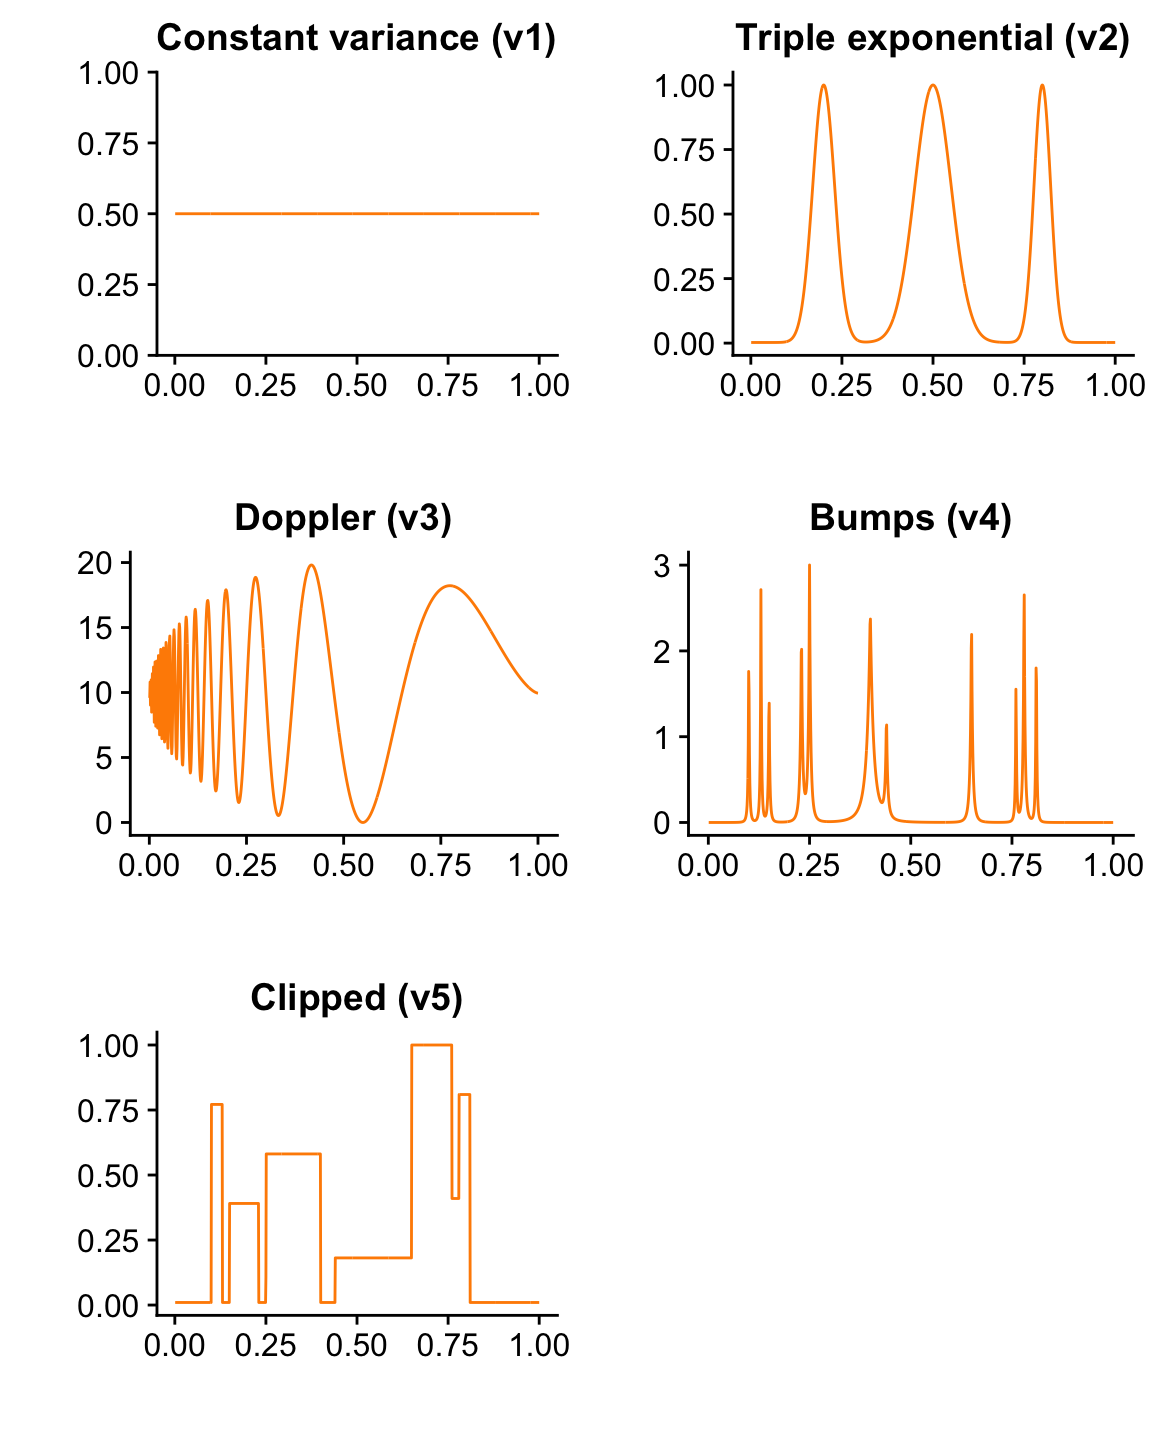
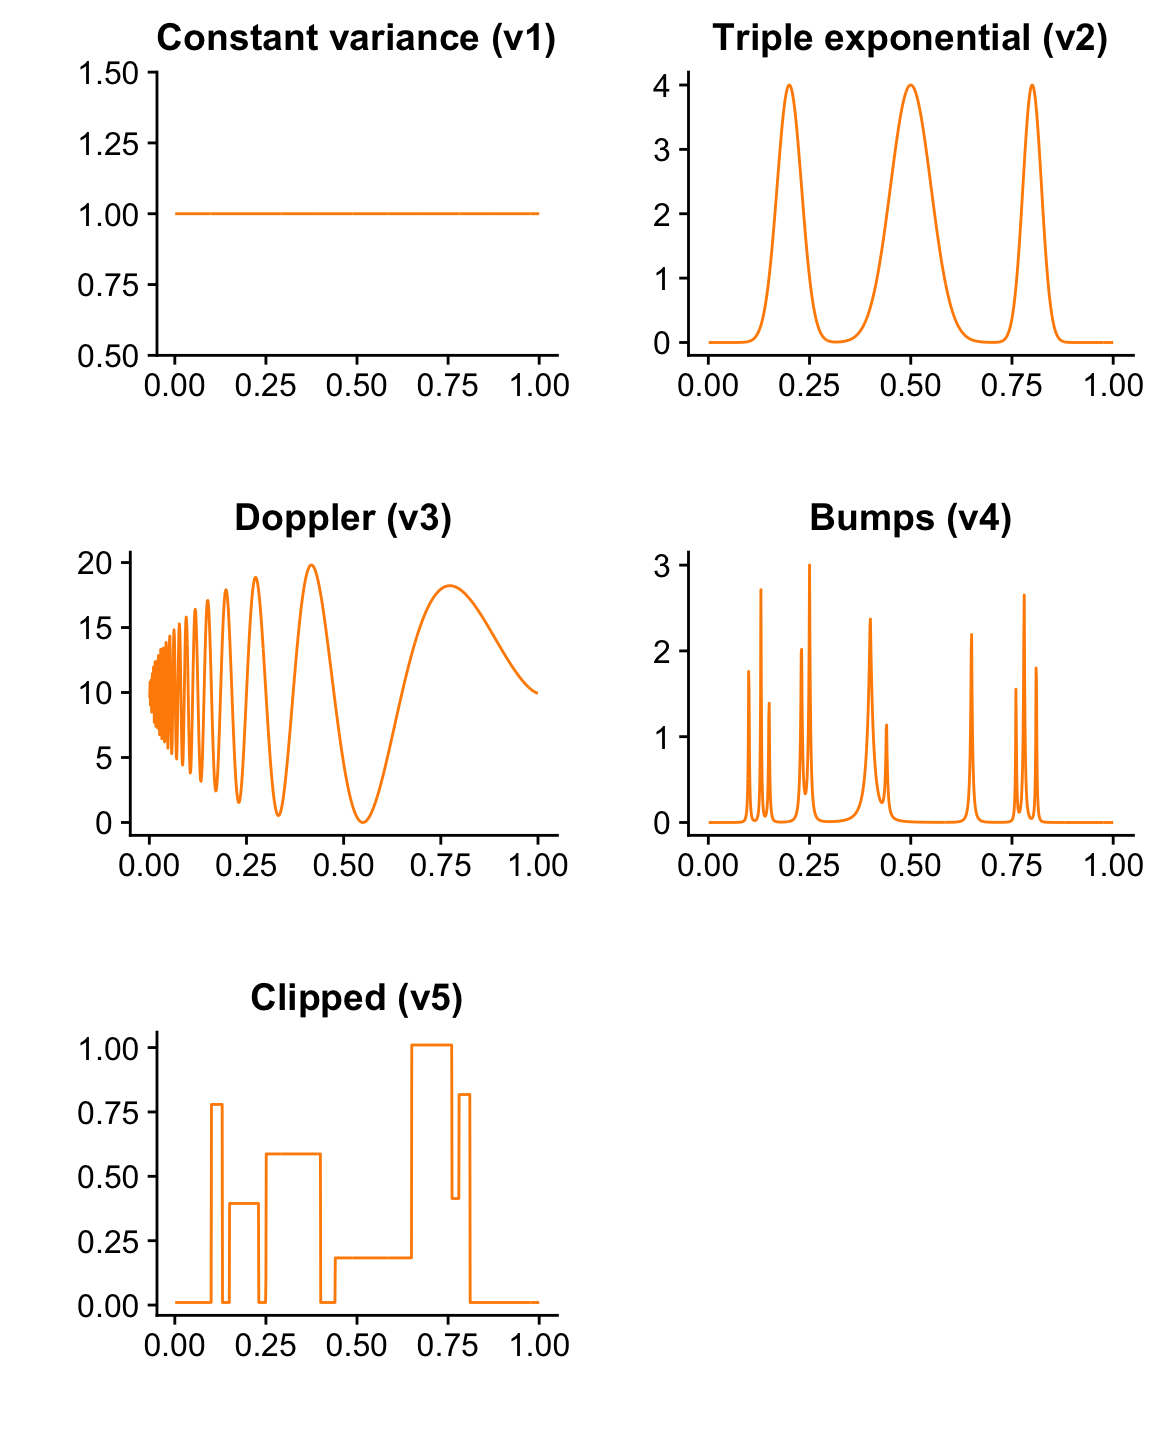
Greatly simplified code in gaussian_signals analysis.

diff --git a/docs/gaussian_signals.html b/docs/gaussian_signals.html
@@ -419,10 +419,10 @@ This reproducible <a href="http://rmarkdown.rstudio.com">R Markdown</a> analysis
 <div class="panel panel-default">
 <div class="panel-heading">
 <p class="panel-title">
-<a data-toggle="collapse" data-parent="#workflowr-checks" href="#strongRepositoryversionstrongahrefhttpsgithubcomstephenslabsmashpapertreefe0ba95008deb668982374733a22955349565643targetblankfe0ba95a"> <span class="glyphicon glyphicon-ok text-success" aria-hidden="true"></span> <strong>Repository version:</strong> <a href="https://github.com/stephenslab/smash-paper/tree/fe0ba95008deb668982374733a22955349565643" target="_blank">fe0ba95</a> </a>
+<a data-toggle="collapse" data-parent="#workflowr-checks" href="#strongRepositoryversionstrongahrefhttpsgithubcomstephenslabsmashpapertree44525e81bcd24ed356f87a8c5205eee013557614targetblank44525e8a"> <span class="glyphicon glyphicon-ok text-success" aria-hidden="true"></span> <strong>Repository version:</strong> <a href="https://github.com/stephenslab/smash-paper/tree/44525e81bcd24ed356f87a8c5205eee013557614" target="_blank">44525e8</a> </a>
 </p>
 </div>
[2 lines of base64/hex data omitted]
 <div class="panel-body">
 <p>
 Great! You are using Git for version control. Tracking code development and connecting the code version to the results is critical for reproducibility. The version displayed above was the version of the Git repository at the time these results were generated. <br><br> Note that you need to be careful to ensure that all relevant files for the analysis have been committed to Git prior to generating the results (you can use <code>wflow_publish</code> or <code>wflow_git_commit</code>). workflowr only checks the R Markdown file, but you know if there are other scripts or data files that it depends on. Below is the status of the Git repository when the results were generated:
@@ -459,9 +459,6 @@ Ignored files:
 
 Untracked files:
     Untracked:  files.txt
-
-Unstaged changes:
-    Modified:   code/signals.R
 
 </code></pre>
 <p>
@@ -500,6 +497,40 @@ Message
 </tr>
 </thead>
 <tbody>
+<tr>
+<td>
+Rmd
+</td>
+<td>
+<a href="https://github.com/stephenslab/smash-paper/blob/44525e81bcd24ed356f87a8c5205eee013557614/analysis/gaussian_signals.Rmd" target="_blank">44525e8</a>
+</td>
+<td>
+Peter Carbonetto
+</td>
+<td>
+2019-11-12
+</td>
+<td>
+wflow_publish(“gaussian_signals.Rmd”)
+</td>
+</tr>
+<tr>
+<td>
+html
+</td>
+<td>
+<a href="https://rawcdn.githack.com/stephenslab/smash-paper/d01177ced404772d47093ff8ff876d4c68465461/docs/gaussian_signals.html" target="_blank">d01177c</a>
+</td>
+<td>
+Peter Carbonetto
+</td>
+<td>
+2019-11-12
+</td>
+<td>
+Simplified some of the code used in the gaussian_signals analysis.
+</td>
+</tr>
 <tr>
 <td>
 Rmd
@@ -910,47 +941,24 @@ source(&quot;../code/signals.R&quot;)</code></pre>
 <p>Here, <code>n</code> specifies the length of the signals.</p>
 <pre class="r"><code>n &lt;- 1024
 t &lt;- 1:n/n</code></pre>
-<p>Define the Angle mean function.</p>
-<pre class="r"><code>sig = ((2 * t + 0.5) * (t &lt;= 0.15)) +
-      ((-12 * (t - 0.15) + 0.8) * (t &gt; 0.15 &amp; t &lt;= 0.2)) +
-      0.2 * (t &gt; 0.2 &amp; t &lt;= 0.5) + 
-      ((6 * (t - 0.5) + 0.2) * (t &gt; 0.5 &amp; t &lt;= 0.6)) +
-      ((-10 * (t - 0.6) + 0.8) * (t &gt; 0.6 &amp; t &lt;= 0.65)) +
-      ((-0.5 * (t - 0.65) + 0.3) * (t &gt; 0.65 &amp; t &lt;= 0.85)) +
-      ((2 * (t - 0.85) + 0.2) * (t &gt; 0.85))
-mu.ang = 3/5 * ((5/(max(sig) - min(sig))) * sig - 1.6) - 0.0419569</code></pre>
-<p>Define the Block mean and variance functions.</p>
-<pre class="r"><code>pos    = c(0.1, 0.13, 0.15, 0.23, 0.25, 0.4, 0.44, 0.65, 0.76, 0.78, 0.81)
-hgt    = 2.88/5 * c(4, (-5), 3, (-4), 5, (-4.2), 2.1, 4.3, (-3.1), 2.1, (-4.2))
-mu.blk = rep(0, n)
-for (j in 1:length(pos))
-  mu.blk = mu.blk + (1 + sign(t - pos[j])) * (hgt[j]/2)
-mu.cblk = mu.blk
-mu.cblk[mu.cblk &lt; 0] = 0</code></pre>
 <p>Define the mean functions.</p>
 <pre class="r"><code>mu.sp   &lt;- spike.fn(t,&quot;mean&quot;)
 mu.bump &lt;- bumps.fn(t,&quot;mean&quot;)
+mu.blk  &lt;- blocks.fn(t,&quot;mean&quot;)
+mu.ang  &lt;- angles.fn(t,&quot;mean&quot;)
 mu.dop  &lt;- doppler.fn(t,&quot;mean&quot;)
 mu.blip &lt;- blip.fn(t,&quot;mean&quot;)
 mu.cor  &lt;- cor.fn(t,&quot;mean&quot;)</code></pre>
-<p>Define the remainder of the mean functions.</p>
-<pre class="r"><code>mu.blk  = 0.2 + 0.6 * (mu.blk - min(mu.blk))/max(mu.blk - min(mu.blk))
-mu.ang  = (1 + mu.ang)/5</code></pre>
 <p>Define the variance functions.</p>
-<pre class="r"><code>var1 = rep(1, n)
-var2 = (0.01 + 4 * (exp(-550 * (t - 0.2)^2) +
-                     exp(-200 * (t - 0.5)^2) +
-                     exp(-950 * (t - 0.8)^2)))
+<pre class="r"><code>var1 &lt;- cons.fn(t,&quot;var&quot;)
+var2 &lt;- texp.fn(t,&quot;var&quot;)
 var3 &lt;- doppler.fn(t,&quot;var&quot;)
 var4 &lt;- bumps.fn(t,&quot;var&quot;)
-var5 = 0.01 + 1 * (mu.cblk - min(mu.cblk))/max(mu.cblk)
-var1 = var1/2
-var2 = var2/max(var2)
-var5 = var5/max(var5)</code></pre>
+var5 &lt;- cblocks.fn(t,&quot;var&quot;)</code></pre>
 </div>
 <div id="plot-the-signal-means" class="section level2">
 <h2>Plot the signal means</h2>
-<p>This function will be used to draw the mean and variance functions.</p>
+<p>This function is used to draw the mean and variance functions.</p>
 <pre class="r"><code>plot.signal &lt;- function (t, y, label)
   quickplot(t,y,geom = &quot;line&quot;,color = I(&quot;darkorange&quot;),
             xlab = &quot;&quot;,ylab = &quot;&quot;,main = label)</code></pre>
@@ -1090,6 +1098,17 @@ Date
 </tr>
 </thead>
 <tbody>
+<tr>
+<td>
+<a href="https://github.com/stephenslab/smash-paper/blob/d01177ced404772d47093ff8ff876d4c68465461/docs/figure/gaussian_signals.Rmd/plot-variance-functions-1.png" target="_blank">d01177c</a>
+</td>
+<td>
+Peter Carbonetto
+</td>
+<td>
+2019-11-12
+</td>
+</tr>
 <tr>
 <td>
 <a href="https://github.com/stephenslab/smash-paper/blob/cc557b51c40bda65fad2306df02f74f6e645ab49/docs/figure/gaussian_signals.Rmd/plot-variance-functions-1.png" target="_blank">cc557b5</a>
